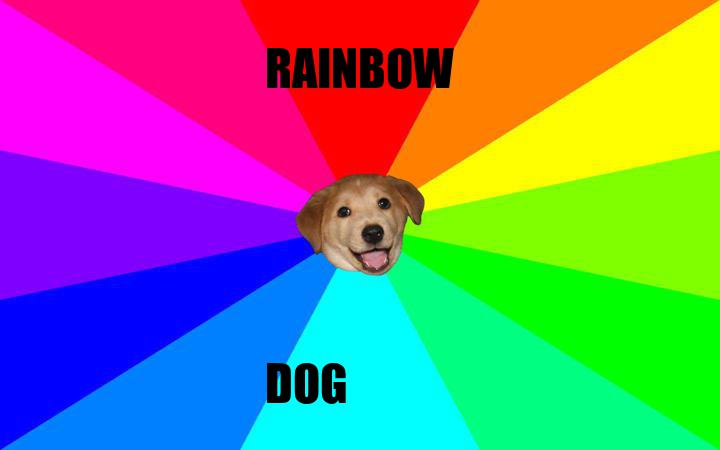
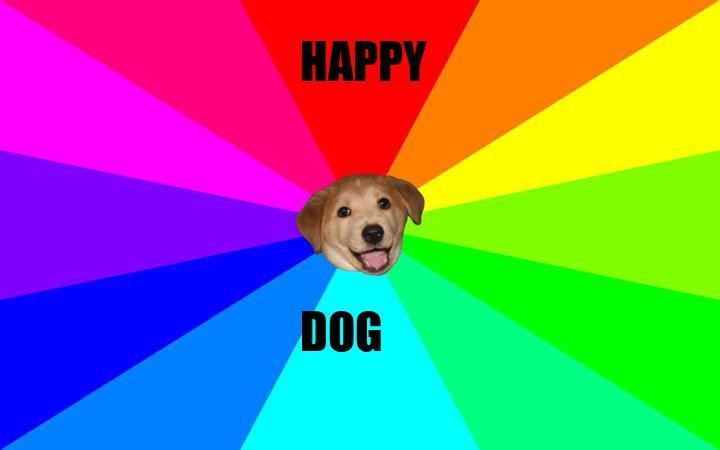
les03 extra toegevoegd

Changed region(s): [[0.3667, 0.0622, 0.6417, 0.2178], [0.3667, 0.6844, 0.55, 0.9022]]

diff --git a/03-MemesGifs/maak_meme.py b/03-MemesGifs/maak_meme.py
@@ -1,32 +1,29 @@
 from PIL import Image, ImageFont, ImageDraw
 
-# Afbeelding openen en oplsaan in de variabele met de naam: afbeelding
-afbeelding = Image.open("meme_background.jpg")
+# Laad de achtergrond afeebdling in de variabele: achtergrond
+achtergrond = Image.open("meme_background.jpg")
 
-# De afbeelding tonen in de standaard image viewer van jouw systeem
-afbeelding.show()
+# Afmetingen opslaan in eigen variabelen
+breedte = achtergrond.width
+hoogte = achtergrond.height
 
-# De breedte en hoogte van de afbeelding lezen en tonen 
-breedte = afbeelding.width
-hoogte = afbeelding.height
-
-tekst_breedte, tekst_hoogte = tekengebied.textsize(tekst, font=lettertype) 
-
-# Tekst positie berekenen
-tekst_x = (breedte - tekst_breedte) / 2
-tekst_y = (hoogte - tekst_hoogte) / 2
-
-lettertype = ImageFont.truetype("impact.ttf",50)
+# Laad het Impact lettertype
+lettertype = ImageFont.truetype("impact.ttf", 50)
 
 # Vraag aan de ImageDraw module om een tekengebied te maken op de achtergrond afbeelding
-tekengebied = ImageDraw.Draw(afbeelding)
+tekengebied = ImageDraw.Draw(achtergrond)
 
 # Tekst schrijven
-tekst = "RAINBOW\n\n\n\n\n\n\nDOG"
-tekengebied.multiline_text((tekst_x,tekst_y), tekst, font=lettertype, fill=(0,0,0))
+tekst = "HAPPY\n\n\n\n\n\nDOG"
+tekengebied.multiline_text((300,40), tekst, font=lettertype, fill=(0,0,0))
 
 # Het resultaat tonen
-afbeelding.show()
+achtergrond.show()
 
 # En opslaan onder een andere naam
-afbeelding.save("meme_met_tekst.jpg")
+achtergrond.save("meme_met_tekst.jpg")
+
+# Bereken de breedte en hoogte van de tekst
+tekst_breedte, tekst_hoogte = tekengebied.textsize(tekst, font=lettertype) 
+print("tekstbreedte=" + str(tekst_breedte) + ", tekst_hoogte=" + str(tekst_hoogte))
+
